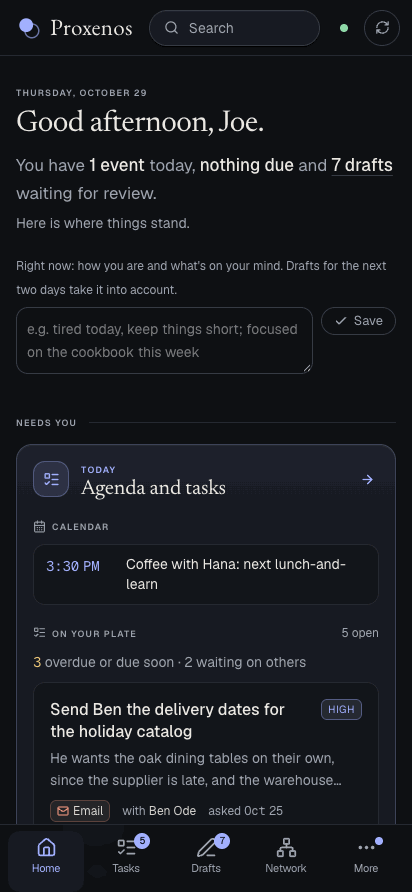
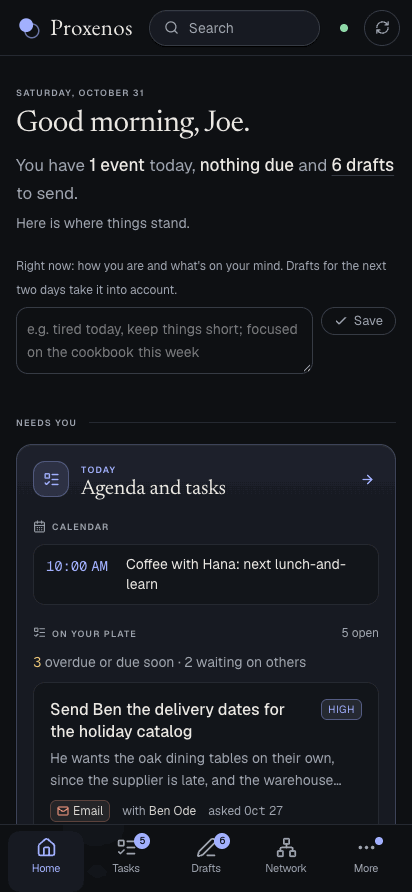
Lead the README with who Proxenos is for, retake its pictures, and add a one-command installer, an AGENTS.md and llms.txt, credits, issue templates and a code of conduct; install scripts refuse to run from a linked worktree

diff --git a/README.md b/README.md
@@ -4,12 +4,21 @@
 ![macOS](https://img.shields.io/badge/platform-macOS-lightgrey)
 ![Python 3.12](https://img.shields.io/badge/python-3.12-blue)
 [![MIT license](https://img.shields.io/badge/license-MIT-green)](LICENSE)
+![Local-first](https://img.shields.io/badge/local--first-your%20data%20stays%20on%20your%20computer-6e56cf)
+[![GitHub stars](https://img.shields.io/github/stars/mindemory/proxenos?style=social)](https://github.com/mindemory/proxenos/stargazers)
+[![XERJ Corpus Hub contributor](https://hub.xerj.org/contributors/mindemory/badge.svg)](https://hub.xerj.org/contributors/mindemory)
 
-**An agent that holds your entire record and acts on your behalf.**
+**A free, open-source agent that keeps your own records private on your computer and drafts the next step for you. Built first for people getting through the health care system.**
+
+When you're unwell, the hard part is often everything around the care: referrals that go quiet, portals, bills that don't match, forms, and the same story told again at every visit. Proxenos reads what you already have (your mail, chats, calendar and notes), keeps track of where things stand, and writes the message, the call script or the one-page brief for your next appointment, in your own voice. You stay in charge: it drafts, and you press send.
+
+It grew out of one person's weeks of getting through the system while unwell. The story is [Try anything, but don't fall sick](https://mrugankdake.substack.com/p/try-anything-but-dont-fall-sick), and more on the project is at [mindemory.io/proxenos](https://www.mindemory.io/proxenos).
 
 > **Status: early, and used every day by one person.** It runs on a Mac (Apple Silicon) for someone comfortable with a terminal, and every check passes from a fresh clone. It isn't yet something you can download and use without code. That's the next track: one download, signing in instead of configuring, and a clear privacy screen ([docs/everyone.md](docs/everyone.md)). Expect rough edges, and readers that assume a particular export format.
 >
-> Help of any kind is welcome: code, an issue, or an idea over a message or a call. Healthcare comes first, so people with medical training are especially welcome. Knowing what's worth tracking and what to ask is what would make this preventive, not just a way through the system. See [CONTRIBUTING.md](CONTRIBUTING.md).
+> **Help of any kind is welcome:** code, an issue, or an idea over a message or a call. Healthcare comes first, so people with medical training are especially welcome. Knowing what's worth tracking and what to ask is what would make this preventive, not just a way through the system. Good places to start are in [CONTRIBUTING.md](CONTRIBUTING.md#good-first-contributions). If you'd like Proxenos to exist for more people, a star helps others find it.
+
+> **Not medical advice.** Proxenos organizes your own records and drafts messages. It doesn't diagnose or recommend treatment: the care view restates what your records say, and anything that matters belongs with your care team.
 
 Proxenos gathers your own data (messages, email, calendar, notes, documents, activity) into one private vault on your computer. From that it keeps a written model of who you are, and runs small agents ("clones") that work for you:
 - a feed of new papers and news, ranked for you;
@@ -20,7 +29,7 @@ Proxenos gathers your own data (messages, email, calendar, notes, documents, act
 - a searchable memory that brings the right past messages and notes to mind;
 - drafts of replies, emails and plans, written in your voice: a reply for each chat waiting on you, in the way you write to that person, after reading any link they sent.
 
-It drafts; by default it never sends, posts or buys anything by itself, and you approve what goes out. An outbox you switch on per app lets replies go out on their own, only where that app's drafts have gone out nearly unchanged many times, with a window to cancel each one ([docs/memory.md](docs/memory.md)). The longer-term plan, moving from drafting to acting on approval to acting within rules you set, is in [docs/roadmap.md](docs/roadmap.md).
+It drafts; by default it never sends, posts or buys anything by itself. You copy a draft or open it in its app with the text filled in, and press send yourself; once your reply shows up in that chat, the draft is marked sent. An outbox you switch on per app lets replies go out on their own, only where that app's drafts have gone out nearly unchanged many times, with a window to cancel each one ([docs/memory.md](docs/memory.md)). The longer-term plan, moving from drafting to acting on approval to acting within rules you set, is in [docs/roadmap.md](docs/roadmap.md).
 
 *The name: in the Greek city-states, a proxenos was the citizen who formally acted on someone else's behalf.*
 
@@ -28,13 +37,13 @@ It drafts; by default it never sends, posts or buys anything by itself, and you 
 
 These come from `proxenos demo` (see [Quick start](#quick-start)): a made-up person, Joe Bloggs, and his made-up records. None of it is real.
 
-![Home: today's agenda and open tasks, drafts waiting for review with their track record, and where health care stands](docs/images/home-desktop.png)
+![Home: today's agenda and open tasks, drafts to send, and where health care stands](docs/images/home-desktop.png)
 
 | Care: where things stand, what's yours to do, what to say | Errands: carried as far as they go, one tap short of sending |
 |---|---|
 | ![Care: a summary of a knee injury's referrals, scan and bill, and the next steps, each with a due date](docs/images/care-desktop.png) | ![Errands: a message to a recruiter with the CV attached, ready to send, with how the address was found](docs/images/errands-desktop.png) |
-| **Drafts: replies and documents in your voice, for your approval** | **Tasks: what was asked of you, pulled from your conversations** |
-| ![Drafts: a WhatsApp reply and an email reply awaiting review, then drafts for open tasks](docs/images/drafts-desktop.png) | ![Tasks: tasks from email and WhatsApp, with who asked, when, and when each is due](docs/images/tasks-desktop.png) |
+| **Drafts: replies and documents in your voice, ready to send** | **Tasks: what was asked of you, pulled from your conversations** |
+| ![Drafts: a WhatsApp reply and an email reply to send, with each app's track record and the outbox, off](docs/images/drafts-desktop.png) | ![Tasks: tasks from email and WhatsApp, with who asked, when, and when each is due](docs/images/tasks-desktop.png) |
 
 On a phone, over `proxenos phone`:
 
@@ -183,6 +192,12 @@ npm --prefix web run lint && npm --prefix web run build
 The same checks run on GitHub for every push and pull request.
 
 `scripts/screenshots.sh` retakes the pictures under [What it looks like](#what-it-looks-like), from the demo vault with headless Chrome (it needs Google Chrome and a Python with Pillow). Open each one before committing it.
+
+For AI coding agents, [AGENTS.md](AGENTS.md) maps the repo, its commands and its rules, and [llms.txt](llms.txt) indexes the docs.
+
+## Built on
+
+Proxenos stands on other people's open-source work: Next.js, React, Tailwind, Ollama, slackdump, Beeper's local API, OpenAlex, mlx-lm and more. Each is credited, with its licence, in [ACKNOWLEDGMENTS.md](ACKNOWLEDGMENTS.md). Code taken from elsewhere keeps its licence and copyright notice, and is listed there too.
 
 ## License
 

diff --git a/ACKNOWLEDGMENTS.md b/ACKNOWLEDGMENTS.md
@@ -1,0 +1,48 @@
+# Acknowledgments
+
+Proxenos is built on other people's open-source work and open data. Thank you to everyone behind these. Each keeps its own licence; Proxenos's own code is [MIT](LICENSE).
+
+If you add code or data from another project, keep its licence and copyright notice with it, and add it here. Prefer permissive licences (MIT, BSD, Apache-2.0, CC0, CC-BY). Copyleft code (GPL, AGPL, SSPL, BUSL) needs a decision first, since it would change what others may do with Proxenos.
+
+## The page
+
+| Project | Licence | Used for |
+|---|---|---|
+| [Next.js](https://github.com/vercel/next.js) | MIT | The local page and its API routes |
+| [React](https://github.com/facebook/react) | MIT | The page's interface |
+| [Tailwind CSS](https://github.com/tailwindlabs/tailwindcss) | MIT | Styling |
+| [Lucide](https://github.com/lucide-icons/lucide) | ISC | Icons |
+| [clsx](https://github.com/lukeed/clsx), [tailwind-merge](https://github.com/dcastil/tailwind-merge) | MIT | Class names |
+| [node-qrcode](https://github.com/soldair/node-qrcode) | MIT | The QR code that opens the page on a phone |
+| [TypeScript](https://github.com/microsoft/TypeScript), [ESLint](https://github.com/eslint/eslint) | Apache-2.0, MIT | Checks |
+
+## The Python package
+
+| Project | Licence | Used for |
+|---|---|---|
+| [Anthropic Python SDK](https://github.com/anthropics/anthropic-sdk-python) | MIT | A hosted model, when you choose one |
+| [NumPy](https://github.com/numpy/numpy) | BSD-3-Clause | The memory's vector search |
+| [pypdf](https://github.com/py-pdf/pypdf) | BSD-3-Clause | Reading PDFs |
+| [python-dotenv](https://github.com/theskumar/python-dotenv) | BSD-3-Clause | Reading `.env` when running from source |
+| [keyring](https://github.com/jaraco/keyring) | MIT | Secrets on Windows and Linux |
+| [pytest](https://github.com/pytest-dev/pytest), [Ruff](https://github.com/astral-sh/ruff) | MIT | Tests and lint |
+
+## Tools and services it works with
+
+| Project | Licence | Used for |
+|---|---|---|
+| [Ollama](https://github.com/ollama/ollama) | MIT | Running an open model on your own computer |
+| [Gemma](https://ai.google.dev/gemma), [Qwen](https://github.com/QwenLM) | Each model's own licence | The default local models for drafting and for search by meaning, pulled through Ollama, not shipped here |
+| [mlx-lm](https://github.com/ml-explore/mlx-lm) | MIT | Training the optional voice model on a Mac ([docs/voice-model.md](docs/voice-model.md)) |
+| [slackdump](https://github.com/rusq/slackdump) | AGPL-3.0 | Reading Slack. Run as a separate program, not included in Proxenos |
+| [Beeper Desktop API](https://www.beeper.com) | Beeper's terms | Instagram, Messenger, X and LinkedIn chats |
+| [OpenAlex](https://openalex.org) | CC0 data | Papers and mentions |
+| [Tailscale](https://tailscale.com) | BSD-3-Clause client | Reaching the page from your own phone |
+| [Pillow](https://github.com/python-pillow/Pillow), [Zopfli](https://github.com/google/zopfli) | MIT-CMU, Apache-2.0 | Shrinking the README's pictures |
+
+## Ideas and inspiration
+
+| Project | Licence | What it gave |
+|---|---|---|
+| [XERJ](https://github.com/xerj-org/xerj) | Apache-2.0 | Proxenos is a corpus on the XERJ Corpus Hub, the open reference memory AI coding agents search before they write code; `AGENTS.md` and `llms.txt` follow that idea |
+| [Synthea](https://github.com/synthetichealth/synthea) | Apache-2.0 | The shape of the synthetic health records used in tests |

diff --git a/AGENTS.md b/AGENTS.md
@@ -1,0 +1,42 @@
+# AGENTS.md
+
+Notes for AI coding agents (and people) working in this repo. The README says what Proxenos is; this says how to change it safely.
+
+## The repo
+
+- `src/proxenos/`: the Python package and the `proxenos` command (`cli.py`).
+  - `ingest/`: one module per source. Each pulls its source into the vault as monthly JSONL files, merged by id, so a re-run changes nothing.
+  - `clones/`: one module per agent (tasks, care, advisor, network, recall, projects, steps, errands, work). Each reads the vault and writes its output under `vault/clones/<name>/`.
+  - `master.py`: sync, observe and the self-model. `chats.py`: conversations waiting on the user. `voice.py`: writing as the user. `fidelity.py`: how close drafts came to what was sent. `llm.py`: the model, local (Ollama) or hosted.
+- `web/`: the local page (Next.js). API routes in `web/src/app/api/` read the vault and run the `proxenos` command; views in `web/src/components/views/`.
+- `tests/`: pytest, synthetic data only.
+- `docs/`: architecture, memory, data sources, roadmap, the plan for everyone ([docs/everyone.md](docs/everyone.md)).
+- `scripts/`: installers for the Mac (launchd jobs, the app), and the README's screenshots.
+
+## Commands
+
+```bash
+pytest -q                                         # all tests, no network, no model
+ruff check src tests && ruff format --check src tests
+npm --prefix web run lint && (cd web && npx tsc --noEmit -p .) && npm --prefix web run build
+proxenos demo                                      # a made-up vault to try the page on
+```
+
+GitHub runs the same checks on macOS and Windows for every push ([.github/workflows/checks.yml](.github/workflows/checks.yml)).
+
+## Rules
+
+- **No personal data in the repo, ever.** The vault lives outside it. Tests build synthetic data inside the test; `tests/conftest.py` keeps them away from real credentials and the `data/` folder. Never paste real messages, names or exports into code, tests, docs or issues.
+- **Nothing sends, posts or buys on its own.** Clones write drafts; the user sends. The one exception is the outbox the user switches on per app ([docs/memory.md](docs/memory.md)).
+- **Re-runs are safe.** Ingesters merge by id (`proxenos.store.merge_monthly`).
+- **Other people's messages reach a model only where a clone needs them**, picked out in code, as the README's Privacy section lists. Keep it that way, and update that list when it changes.
+- **Files are private:** the vault's files are 0600 in 0700 folders. Tests check modes only where the platform has them (`os.name == "nt" or ...`).
+- **Match the surrounding code:** small modules, a docstring that says why, stdlib first, the same comment density and naming as the file you're in. Ruff's line length is 100.
+- **Credit what you borrow.** Code or data from another project keeps its licence and copyright notice and goes in [ACKNOWLEDGMENTS.md](ACKNOWLEDGMENTS.md). Prefer permissive licences.
+- **Commits:** one plain sentence saying what changed, no attribution trailers.
+
+## Adding things
+
+- A source: [CONTRIBUTING.md](CONTRIBUTING.md#adding-a-source).
+- A clone: [CONTRIBUTING.md](CONTRIBUTING.md#adding-a-clone).
+- A view on the page: a component in `web/src/components/views/`, an API route under `web/src/app/api/`, and its types in `web/src/lib/types.ts`.

diff --git a/CONTRIBUTING.md b/CONTRIBUTING.md
@@ -2,6 +2,19 @@
 
 Thanks for looking. Proxenos is early. The most useful contributions right now are ideas, bug reports and new source readers.
 
+## Good first contributions
+
+Pick one, say so in an issue, and ask anything along the way:
+
+- **A source people need:** iMessage (the Messages app's local database), Signal or Telegram exports, or a patient portal's record download as C-CDA (XML). See [Adding a source](#adding-a-source).
+- **A smaller Mac:** find and document an Ollama model that drafts well on a 16 GB Mac, and what the setup page should suggest for it.
+- **Windows:** run Proxenos from source on Windows and report or fix what breaks. The checks already run there; the sources and the schedule need people.
+- **The privacy screen:** what stays on the computer, what reaches a model, and Delete everything, as [docs/everyone.md](docs/everyone.md#the-privacy-screen) plans it.
+- **A setup guide for non-coders:** every step from a new Mac to a first draft, with pictures from `proxenos demo`.
+- **If you work in health care:** read what the care view shows on the demo (`proxenos demo`) and say what's missing, what to track, and what a patient should ask. That's what would make it preventive.
+
+Using an AI coding agent? Point it at [AGENTS.md](AGENTS.md) first.
+
 ## Ideas and issues
 
 Open an issue for anything that would make Proxenos more useful to you. Ideas for people dealing with hard systems, such as healthcare, insurance or benefits, are especially welcome.
@@ -9,6 +22,8 @@ Open an issue for anything that would make Proxenos more useful to you. Ideas fo
 **Please never paste personal data into an issue:** no messages, emails, names or exports. Describe the shape of the problem instead, e.g. the file layout or field names.
 
 Security problems go privately, not in an issue: see [SECURITY.md](SECURITY.md).
+
+Everyone taking part agrees to the [code of conduct](CODE_OF_CONDUCT.md).
 
 ## Setup
 
@@ -20,6 +35,7 @@ See the Quick start in the [README](README.md). The `dev` extra installs pytest 
 - **Nothing sends, posts or buys on its own.** Clones write drafts; acting is the user's choice. See [docs/roadmap.md](docs/roadmap.md) for how that is meant to change, channel by channel.
 - **Re-runs must be safe.** Ingesters merge by id into monthly files (`proxenos.store.merge_monthly`), so running one twice changes nothing.
 - **Match the surrounding code:** small modules, docstrings that explain why, stdlib first.
+- **Credit what you borrow.** Code or data from another project keeps its licence and copyright notice, and goes in [ACKNOWLEDGMENTS.md](ACKNOWLEDGMENTS.md). Prefer permissive licences.
 
 ## Adding a source
 

diff --git a/CODE_OF_CONDUCT.md b/CODE_OF_CONDUCT.md
@@ -1,0 +1,10 @@
+# Code of conduct
+
+Proxenos is built first for people going through a hard time. Treat everyone here the way you'd want to be treated on your worst day.
+
+- Be kind and patient, with newcomers above all. Every question is welcome.
+- Respect privacy: never share anyone's personal or health information, here or anywhere it came from Proxenos.
+- Disagree about ideas, never about people. No harassment, insults or discrimination of any kind.
+- Credit other people's work.
+
+If someone isn't following this, or you'd rather raise something privately, use the repository's private report (the Security tab, **Report a vulnerability**, as [SECURITY.md](SECURITY.md) describes) and say it's a conduct report. Reports are kept confidential. The maintainer may remove comments, issues or contributors that break these rules.

diff --git a/.github/ISSUE_TEMPLATE/bug.md b/.github/ISSUE_TEMPLATE/bug.md
@@ -1,0 +1,15 @@
+---
+name: Something broke
+about: A command, a source or the page didn't do what it should
+labels: bug
+---
+
+<!-- Please never paste personal data here: no messages, emails, names, addresses or exports. Describe the shape instead (the file layout, the field names, the error). -->
+
+**What you ran or clicked**
+
+**What happened** (the error, or what the page showed)
+
+**What you expected**
+
+**Your setup:** macOS or Windows version, Apple Silicon or Intel, the model (Ollama and which one, or a hosted one), and `git log -1 --format=%h` from your clone.

diff --git a/.github/ISSUE_TEMPLATE/source.md b/.github/ISSUE_TEMPLATE/source.md
@@ -1,0 +1,13 @@
+---
+name: A new source
+about: A place your records live that Proxenos can't read yet
+labels: source
+---
+
+<!-- Please never paste personal data here. Field names and file layout are enough. -->
+
+**The source:** the app or service, and how its data can be had (an export, a local database, a sign-in).
+
+**The shape:** file names and formats, and the fields that matter (dates, who wrote it, the text).
+
+**Would you like to write the reader?** CONTRIBUTING.md says how: one module in `src/proxenos/ingest/` and a test with made-up data.

diff --git a/.github/pull_request_template.md b/.github/pull_request_template.md
@@ -1,0 +1,10 @@
+<!-- Thanks for helping. Please keep personal data out of the code, tests, docs and this description. -->
+
+**What this changes and why**
+
+**How it was checked:** `pytest -q`, `ruff check src tests && ruff format --check src tests`, and for the page `npm --prefix web run lint` and a build.
+
+- [ ] Tests use made-up data only
+- [ ] Nothing sends, posts or buys on its own
+- [ ] Code or data from elsewhere keeps its licence and is listed in ACKNOWLEDGMENTS.md
+- [ ] Docs updated where behaviour changed

diff --git a/.github/ISSUE_TEMPLATE/idea.md b/.github/ISSUE_TEMPLATE/idea.md
@@ -1,0 +1,13 @@
+---
+name: An idea
+about: Something that would make Proxenos more useful to you or someone you care for
+labels: idea
+---
+
+<!-- Please never paste personal data here. Describe the situation, not the person. -->
+
+**The situation:** who it's for and what they're trying to get done (a referral, a bill, a form, a reply, a project).
+
+**What would help:** what Proxenos could keep track of, draft or do.
+
+**Anything you'd want it never to do here?**
